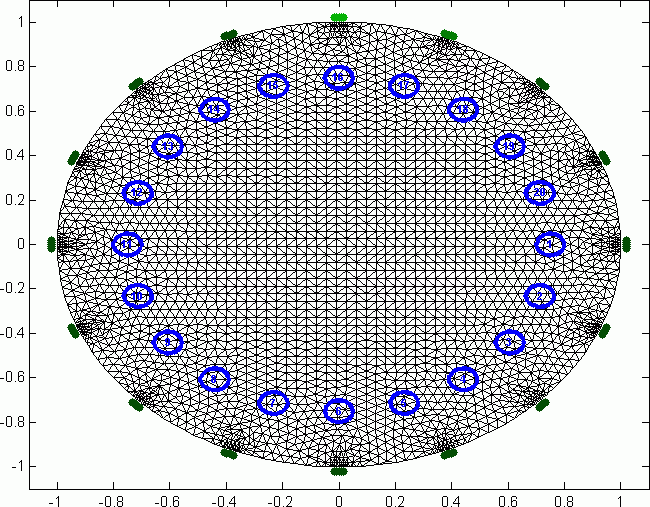
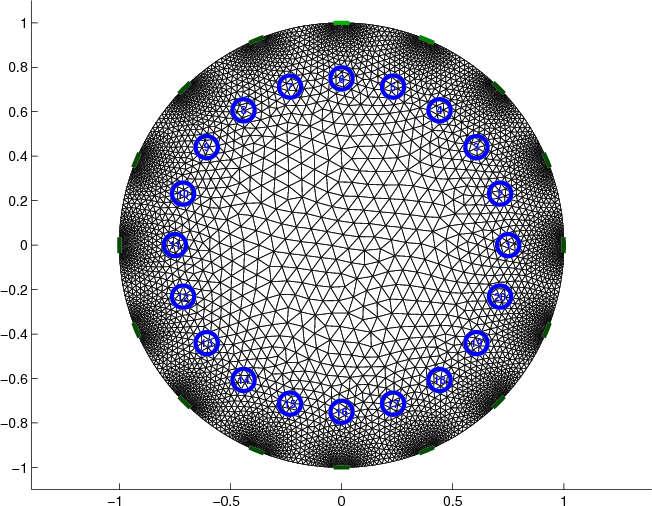
convert to print_convert
git-svn-id: svn+ssh://svn.code.sf.net/p/eidors3d/code/trunk@2770 82006732-fb7e-4a22-9f28-86a212cce563

diff --git a/htdocs/tutorial/distmesh/simulate_move1_02.m b/htdocs/tutorial/distmesh/simulate_move1_02.m
@@ -14,5 +14,5 @@ for i=1:length(xyr_pt)
         'Color',[0,0,1],'FontWeight','bold');
 end
 hold off;
-
-print -dpng -r100 simulate_move1_02a.png
+axis([-1.1 1.1 -1.1 1.1]); axis equal
+print_convert simulate_move1_02a.png '-density 100'

diff --git a/htdocs/tutorial/distmesh/simulate_move1_03.m b/htdocs/tutorial/distmesh/simulate_move1_03.m
@@ -10,4 +10,4 @@ axis image
 subplot(122)
 show_slices(img)
 
-print -dpng -r125 simulate_move1_03a.png
+print_convert simulate_move1_03a.png '-density 125'
